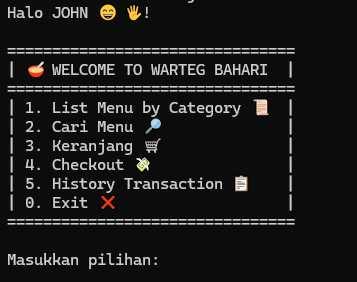
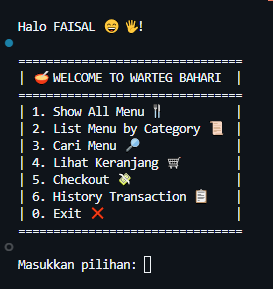
feat: add pagination in show all menu

diff --git a/utils/all_menu.go b/utils/all_menu.go
@@ -2,6 +2,7 @@ package utils
 
 import (
 	"fmt"
+	"strings"
 	"weeklytask-8/data"
 )
 
@@ -13,54 +14,64 @@ var allMenuUI = `
 ==============================================
 `
 
-
 func AllMenu(dataParams *[]data.ListMenu) {
 	listMenu := *dataParams
+	itemsPerPage := 5
+	totalItems := len(listMenu)
+	totalPages := (totalItems + itemsPerPage - 1) / itemsPerPage 
+	currentPage := 0
 
-	fmt.Print(allMenuUI)
-	for _, item := range listMenu {
-		fmt.Printf("%s | %s | %d | %s\n", item.No, item.Name, item.Price, item.Category)
-	}
+	for {
+		fmt.Print("\033[H\033[2J") 
+		fmt.Print(allMenuUI)
 
-	fmt.Println("==================================")
-	fmt.Printf("\nMasukkan Pilihan [%s - %d] : ", listMenu[0].No, len(listMenu))
-	var choice string
-	fmt.Scanln(&choice)
+		start := currentPage * itemsPerPage
+		end := start + itemsPerPage
+		if end > totalItems {
+			end = totalItems
+		}
 
-	notExist := "false"
+		for i := start; i < end; i++ {
+			item := listMenu[i]
+			fmt.Printf("%s | %s | %d | %s\n", item.No, item.Name, item.Price, item.Category)
+		}
 
-	for x := range listMenu {
-		if listMenu[x].Category == ChoosenCategory {
-			isMatch := choice == listMenu[x].No
-			if isMatch {
-				Cart = append(Cart, data.ListMenu{
-					No:       listMenu[x].No,
-					Name:     listMenu[x].Name,
-					Price:    listMenu[x].Price,
-					Category: listMenu[x].Category,
-				})
-				notExist = "false"
-				break
+		fmt.Println("==============================================")
+		fmt.Printf("Page %d of %d\n", currentPage+1, totalPages)
+		fmt.Println("[p = previous] [n = next] [Tambahkan ID ke keranjang] [q to back to home]")
+		fmt.Print("Masukkan Pilihan: ")
+
+		var choice string
+		fmt.Scanln(&choice)
+		choice = strings.ToLower(choice)
+
+		switch choice {
+		case "n":
+			if currentPage < totalPages-1 {
+				currentPage++
 			}
-			notExist = "true"
-		}
-	}
-
-	if notExist == "true" {
-		fmt.Print("Pilihan tidak ada❌, enter untuk kembali ke home..")
-		var invalid string
-		fmt.Scanln(&invalid)
-		switch invalid {
-		default:
+			continue
+		case "p":
+			if currentPage > 0 {
+				currentPage--
+			}
+			continue
+		case "q":
 			return
-		}
-	} else {
-		fmt.Print("Berhasil ditambahkan ✅ , enter untuk kembali dan lihat keranjang mu..")
-		var invalid string
-		fmt.Scanln(&invalid)
-		switch invalid {
 		default:
-			return
+			for _, item := range listMenu {
+				if choice == item.No {
+					Cart = append(Cart, data.ListMenu{
+						No:       item.No,
+						Name:     item.Name,
+						Price:    item.Price,
+						Category: item.Category,
+					})
+					fmt.Printf("Menambahkan %s ke Keranjang ✅ , enter untuk kembali ke home...", item.Name)
+					fmt.Scanln()
+					break
+				}
+			}
 		}
 	}
 }
